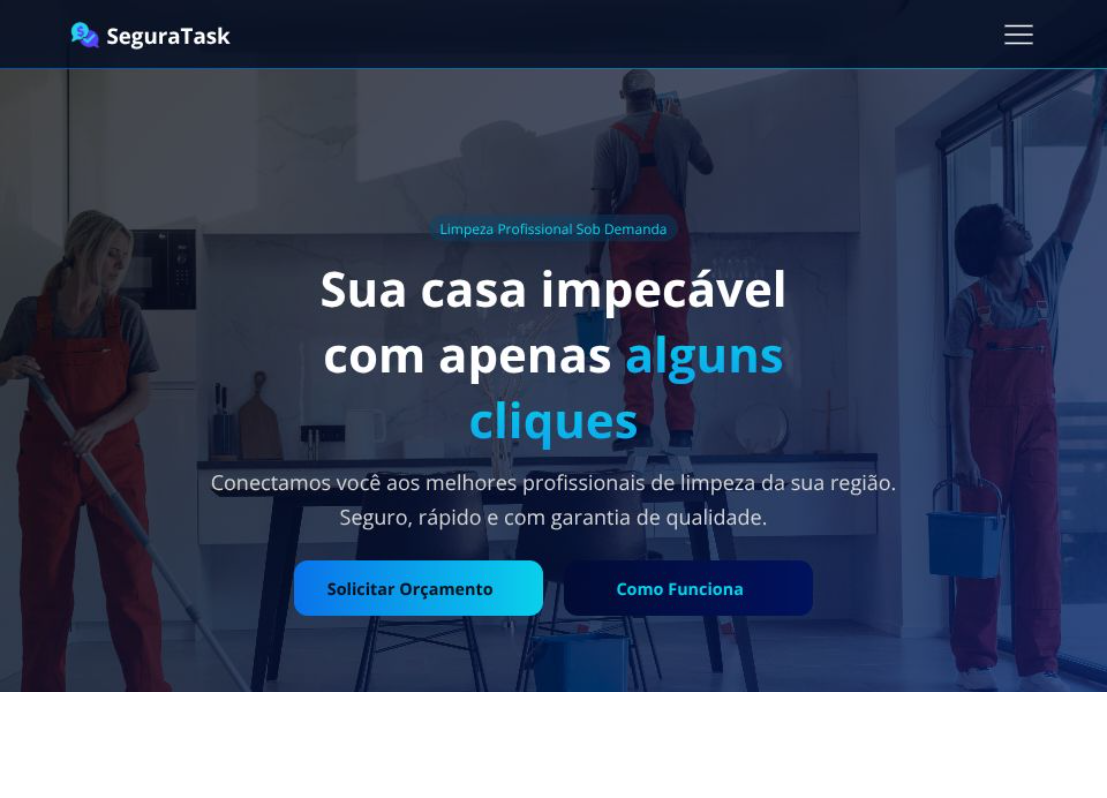
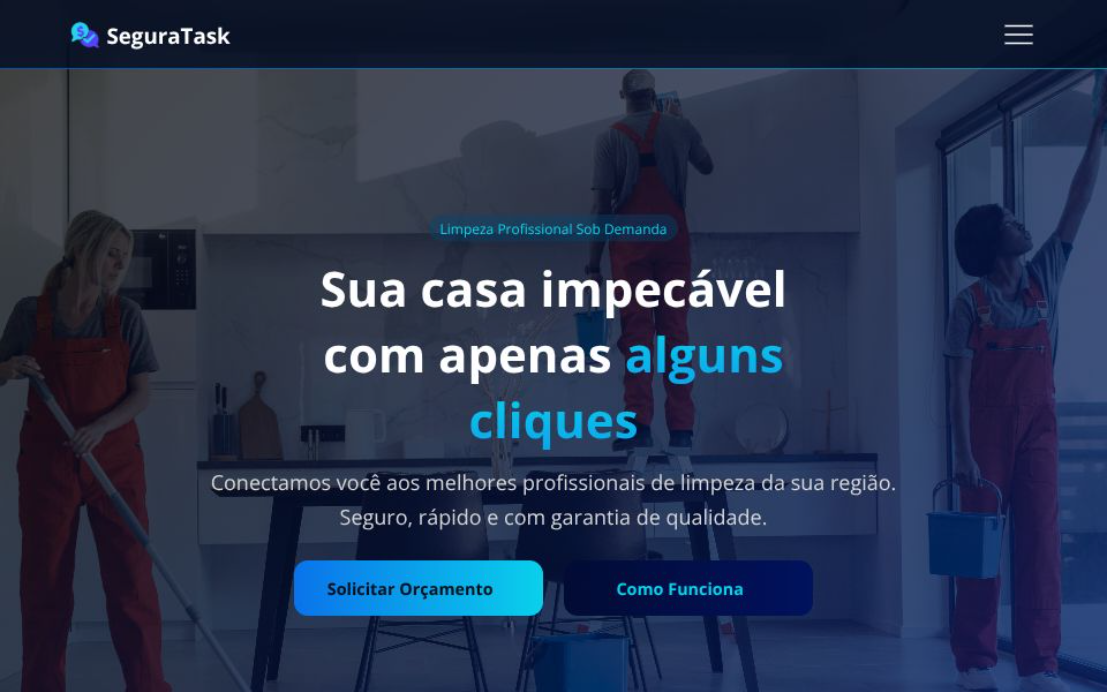
melhoria

diff --git a/style.css b/style.css
@@ -28,12 +28,13 @@ body {
   height: 10vh;
   position: fixed;
   top: 0vh;
-  background: rgba(15, 23, 42, 0.9);
+  background: rgba(15, 18, 42, 0.9);
   width: 100%;
   z-index: 4;
   padding: 1.5rem;
   justify-content: center;
   align-items: center;
+  border-bottom: #4f46e5 1px solid;
 }
 
 .menu {
@@ -61,7 +62,7 @@ body {
     left: 0;
     width: 50vw;
     height: 100vw;
-    background: rgba(15, 23, 42, 0.9);
+    background: rgba(15, 18, 42, 0.9);
     flex-direction: column;
     align-items: center;
     transform: translateX(-100%);
@@ -196,17 +197,7 @@ h1 {
   letter-spacing: 2px;
 }
 
-/*.video-projetos {
-    position: fixed;
-    inset: 0;
-    width: 100%;
-    height: 100%;
-    object-fit: cover;
-    z-index: -1;
-}*/
-
 .projetos {
-  /*height: 555%;*/
   min-height: 100vh;
   overflow: hidden;
   position: relative;
@@ -218,6 +209,14 @@ h1 {
   overflow: hidden;
   display: flex;
   flex-direction: column;
+}
+
+.projetos-titulo {
+  margin-top: 40px;
+  text-align: center;
+  font-size: 2.5rem;
+  width: 100%;
+  align-self: center;
 }
 
 .projetos-caixa {
@@ -233,10 +232,12 @@ h1 {
   will-change: transform;
 }
 
+/* ==========================================================================
+   CARDS DE PROJETOS (SEM OVERFLOW E COMPATÍVEL COM VANILLA TILT)
+   ========================================================================== */
 .projetos-card {
   position: relative;
   width: 320px;
-  height: 400px;
   margin: 30px;
   box-shadow: 20px 20px 50px rgba(0, 0, 0, 0.5);
   border-radius: 15px;
@@ -248,9 +249,8 @@ h1 {
   display: flex;
   flex-direction: column;
 
-  /* AJUSTES PARA O VANILLA TILT */
-  transform-style: preserve-3d; /* Permite que os elementos internos flutuem em 3D */
-  /* overflow: hidden;  <-- REMOVA OU COMENTE ESSA LINHA */
+  /* Permite que os reflexos e sombras do efeito 3D flutuem livres */
+  transform-style: preserve-3d;
 }
 
 .projetos-card > a {
@@ -268,28 +268,23 @@ h1 {
   display: block;
   transition: all 0.3s ease;
 
-  /* Garante o arredondamento perfeito no topo do card */
+  /* Como removemos o overflow do card, a imagem precisa herdar o arredondamento superior */
   border-top-left-radius: 15px;
   border-top-right-radius: 15px;
 }
 
 .projetos-imagem:hover {
   opacity: 0.85;
-  transform: scale(1.03);
 }
 
 .caixa-textos-projetos {
   width: 100%;
-  height: 45%;
-  padding: 0.8rem 1.2rem;
+  padding: 1rem 1.2rem 1.5rem 1.2rem;
   display: flex;
   flex-direction: column;
-  gap: 0.3rem;
+  gap: 0.5rem;
   box-sizing: border-box;
   justify-content: flex-start;
-
-  /* Faz o bloco de texto saltar para a frente no efeito 3D */
-  transform: translateZ(40px);
 }
 
 .info-projetos {
@@ -317,9 +312,7 @@ h1 {
   margin: 0;
 }
 
-.caixa-textos-projetos {
-  padding: 1rem;
-}
+/* ========================================================================== */
 
 .contatos {
   padding: 12rem 2rem;
@@ -396,31 +389,41 @@ h1 {
   background: rgba(15, 23, 42, 0.4);
   height: 40vh;
   width: 100vw;
-  -webkit-backdrop-filte: blur(5px);
   backdrop-filter: blur(5px);
+  align-items: center;
+  display: flex;
+  flex-direction: column;
+}
+
+#garantia {
+  position: relative;
+  height: 20vh;
+  display: flex;
+  justify-content: center;
+  align-items: center;
+  text-align: center;
   align-items: center;
   justify-content: center;
   justify-items: center;
 }
-
 .creditos {
   height: 25vh;
   width: 100vw;
   border-top: 1px solid gray;
   border-bottom: 1px solid gray;
   justify-items: center;
+  align-items: center;
+  text-align: center;
   display: grid;
   place-items: center;
   overflow: hidden;
   box-shadow: #fff 0 0 5px;
-  margin-bottom: 40px;
 }
 
 .video-creditos {
   position: relative;
   height: 25vh;
   width: 100vw;
-
   object-fit: cover;
   display: block;
 }
@@ -434,7 +437,6 @@ h1 {
   100% {
     transform: translateY(0);
   }
-
   50% {
     transform: translateY(-20px);
   }
@@ -443,9 +445,7 @@ h1 {
 @keyframes box-pulse {
   0% {
     box-shadow: none;
-    /* começa apagado */
   }
-
   30% {
     text-shadow:
       0 0 5px #a375fa,
@@ -453,7 +453,6 @@ h1 {
       0 0 15px #7636e4,
       0 0 20px #6e25ec;
   }
-
   60% {
     box-shadow:
       0 0 20px #a375fa,
@@ -461,19 +460,15 @@ h1 {
       0 0 10px #7636e4,
       0 0 5px #6e25ec;
   }
-
   100% {
     box-shadow: none;
-    /* volta a apagar */
   }
 }
 
 @keyframes text-pulse {
   0% {
     text-shadow: none;
-    /* começa apagado */
   }
-
   30% {
     text-shadow:
       0 0 5px #a375fa,
@@ -481,7 +476,6 @@ h1 {
       0 0 15px #7636e4,
       0 0 20px #6e25ec;
   }
-
   60% {
     text-shadow:
       0 0 20px #a375fa,
@@ -489,10 +483,8 @@ h1 {
       0 0 10px #7636e4,
       0 0 5px #6e25ec;
   }
-
   100% {
     text-shadow: none;
-    /* volta a apagar */
   }
 }
 
@@ -501,7 +493,6 @@ h1 {
     opacity: 0;
     translate: 100vw 0;
   }
-
   to {
     opacity: 1;
     translate: -100vw 0;
@@ -513,7 +504,6 @@ h1 {
     opacity: 0;
     transform: translateX(-50px);
   }
-
   to {
     opacity: 1;
     transform: translateX(0);
@@ -530,75 +520,4 @@ h1 {
 
 .mobile-menu.active .line3 {
   transform: rotate(45deg) translate(-5px, -7px);
-}
-
-/* Bloco inferior de textos (Ajustado para controlar o tamanho do texto) */
-.caixa-textos-projetos {
-  width: 100%;
-  height: 45%;
-  padding: 0.8rem 1.2rem; /* Reduzida a folga superior */
-  display: flex;
-  flex-direction: column;
-  gap: 0.3rem; /* Espaço mínimo entre o H3 e o parágrafo */
-  box-sizing: border-box;
-  justify-content: flex-start;
-}
-
-/* Título interno do card (o H3) */
-.info-projetos {
-  font-size: 1.3rem;
-  font-weight: bold;
-  color: var(--claro);
-  margin: 0; /* Zera qualquer margem antiga para colar na imagem */
-  padding: 0;
-  line-height: 1.2;
-}
-
-/* Parágrafo descritivo com limite de 4 linhas e rolagem */
-.paragrafo-projetos {
-  font-size: 0.85rem;
-  line-height: 1.4; /* Altura de cada linha */
-  color: rgba(226, 232, 240, 0.85);
-  text-align: justify;
-  margin: 0;
-
-  /* CRUCIAL: Limita a altura máxima em exatamente 4 linhas (1.4 de linha * 4 = 5.6) */
-  max-height: 5.6em;
-  overflow-y: auto; /* Cria a barra de rolagem vertical se o texto passar disso */
-  padding-right: 5px; /* Evita que a barra de rolagem fique colada nas palavras */
-}
-
-/* Customização opcional para deixar a barra de rolagem do texto bem fina e discreta */
-.paragrafo-projetos::-webkit-scrollbar {
-  width: 4px;
-}
-
-.paragrafo-projetos::-webkit-scrollbar-thumb {
-  background: var(--primaria);
-  border-radius: 10px;
-}
-
-/* O parágrafo é o único elemento que vai rolar */
-.paragrafo-projetos {
-  font-size: 0.85rem;
-  line-height: 1.4;
-  color: rgba(226, 232, 240, 0.85);
-  text-align: justify;
-  margin: 0;
-
-  /* Trava o texto em 4 linhas e isola a rolagem apenas aqui */
-  max-height: 5.6em;
-  overflow-y: auto; /* Rolagem vertical para o texto que passar de 4 linhas */
-  overflow-x: hidden; /* Garante que o texto não dance para os lados */
-  padding-right: 6px;
-}
-
-/* Deixa a barra de rolagem do parágrafo bem fina para não afetar o design */
-.paragrafo-projetos::-webkit-scrollbar {
-  width: 4px;
-}
-
-.paragrafo-projetos::-webkit-scrollbar-thumb {
-  background: var(--primaria);
-  border-radius: 10px;
 }

diff --git a/index.html b/index.html
@@ -46,7 +46,7 @@
         <img src="" class="foto-perfil" />
         <h1>João Vitor Costa</h1>
         <p class="cabecalho-sub-titulo">
-          Desenvolvedor front End e Programador de Sistemas
+          Desenvolvedor Full Stack e Programador de Sistemas
         </p>
       </div>
     </main>
@@ -70,7 +70,7 @@
         <h2 class="projetos-titulo">Meus Projetos</h2>
         <div class="projetos-caixa">
           <div class="projetos-card">
-            <a href="seguratask.vercel.app" target="_blank">
+            <a href="https://seguratask.vercel.app" target="_blank">
               <img
                 src="img/pj1.png"
                 alt="Layout do projeto SeguraTask"
@@ -81,18 +81,15 @@
               <!-- O título vira o link para o site na Vercel -->
               <h3 class="info-projetos">
                 <a
-                  href="seguratask.vercel.app"
+                  href="https://seguratask.vercel.app"
                   target="_blank"
                   class="projeto-link"
                   >SeguraTask</a
                 >
               </h3>
               <p class="paragrafo-projetos">
-                Plataforma web para agendamento de serviços de limpeza
-                residencial e comercial. O sistema conta com simulação de
-                orçamentos em tempo real, interface mobile-first de alto padrão
-                e estrutura preparada para integração de APIs de banco de dados
-                e autenticação de usuários.
+                Protótipo funcional focado no segmento de serviços de limpeza
+                automatizados...
               </p>
             </div>
           </div>
@@ -257,14 +254,13 @@
     <div class="creditos-caixa">
       <div class="creditos">
         <video autoplay muted loop class="video-creditos">
-          <source
-            src="videos/14369240-hd_1920_1080_30fps.mp4"
-            type="video/mp4"
-          />
+          <source src="img/14369240-hd_1920_1080_30fps.mp4" type="video/mp4" />
         </video>
         <p class="creditos-texto">tanana</p>
       </div>
-      <p>© 2026 Portifolio. Todos os direitos reservados.</p>
+      <div id="garantia">
+        <p>© 2026 Portfólio. Todos os direitos reservados.</p>
+      </div>
     </div>
     <script>
       VanillaTilt.init(document.querySelectorAll(".projetos-card"), {